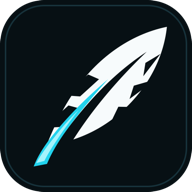
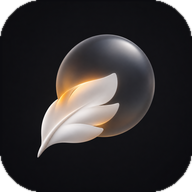
feat(brand): adopt the glass mark with light and dark variants
Replace the feather-plate logo with the rendered glass mark, cut out so the
navbar shows the shape alone, and give both appearances their own assets.

The app resolves the effective theme (light/dark/system, tracking the OS while
following it) and swaps the in-app mark and the tab favicon with it. PWA and
macOS icons ship both appearances too, since those are snapshotted at install
time and cannot be swapped by a running page.

The desktop icon is now a real 824/1024 macOS-grid render instead of the grey
placeholder: MyGo reads go/resources/icon.png and bakes it into AppIcon.icns.

diff --git a/client/src/hooks/useResolvedTheme.test.ts b/client/src/hooks/useResolvedTheme.test.ts
@@ -1,0 +1,75 @@
+// @vitest-environment jsdom
+
+import { describe, expect, it, beforeEach, afterEach, vi } from 'vitest'
+import { renderHook, act } from '@testing-library/react'
+import { useResolvedTheme } from './useResolvedTheme'
+import { useUIStore } from '@/stores'
+
+type Listener = (event: { matches: boolean }) => void
+
+function mockMatchMedia(initialDark: boolean) {
+  const listeners = new Set<Listener>()
+  let dark = initialDark
+  const query = {
+    get matches() { return dark },
+    media: '(prefers-color-scheme: dark)',
+    addEventListener: (_: string, cb: Listener) => { listeners.add(cb) },
+    removeEventListener: (_: string, cb: Listener) => { listeners.delete(cb) },
+  }
+  vi.stubGlobal('matchMedia', vi.fn(() => query))
+  return {
+    setDark(next: boolean) {
+      dark = next
+      listeners.forEach(cb => cb({ matches: next }))
+    },
+  }
+}
+
+describe('useResolvedTheme', () => {
+  beforeEach(() => {
+    useUIStore.setState({ theme: 'dark' })
+  })
+
+  afterEach(() => {
+    vi.unstubAllGlobals()
+  })
+
+  it('follows an explicit dark preference', () => {
+    mockMatchMedia(false)
+    const { result } = renderHook(() => useResolvedTheme())
+    expect(result.current).toBe('dark')
+  })
+
+  it('follows an explicit light preference even when the system is dark', () => {
+    mockMatchMedia(true)
+    useUIStore.setState({ theme: 'light' })
+    const { result } = renderHook(() => useResolvedTheme())
+    expect(result.current).toBe('light')
+  })
+
+  it('resolves system preference to the current system scheme', () => {
+    mockMatchMedia(true)
+    useUIStore.setState({ theme: 'system' })
+    const { result } = renderHook(() => useResolvedTheme())
+    expect(result.current).toBe('dark')
+  })
+
+  it('updates when the system scheme changes while following it', () => {
+    const media = mockMatchMedia(false)
+    useUIStore.setState({ theme: 'system' })
+    const { result } = renderHook(() => useResolvedTheme())
+    expect(result.current).toBe('light')
+
+    act(() => media.setDark(true))
+    expect(result.current).toBe('dark')
+  })
+
+  it('ignores system changes when an explicit preference is set', () => {
+    const media = mockMatchMedia(false)
+    useUIStore.setState({ theme: 'light' })
+    const { result } = renderHook(() => useResolvedTheme())
+
+    act(() => media.setDark(true))
+    expect(result.current).toBe('light')
+  })
+})

diff --git a/client/src/components/Layout.tsx b/client/src/components/Layout.tsx
@@ -13,6 +13,8 @@ import { Island } from '@/lib/island'
 import { IslandContext } from '@/lib/island/context'
 import { useUIStore } from '@/stores'
 import { appTabFromPath, appTabPath, isAppTab, type AppTab } from '@/stores/uiStore'
+import { useResolvedTheme } from '@/hooks/useResolvedTheme'
+import { brandMarkUrl } from '@/utils/brandAssets'
 import { preloadPage } from '@/utils/pagePreload'
 import {
   DEFAULT_OPERATOR_QUOTE,
@@ -132,6 +134,8 @@ export default function Layout({ children }: LayoutProps) {
   const storedActiveTab = useUIStore(state => state.activeTab)
   const setActiveTab = useUIStore(state => state.setActiveTab)
   const theme = useUIStore(state => state.theme)
+  const resolvedTheme = useResolvedTheme()
+  const brandMark = brandMarkUrl(resolvedTheme)
   const hasIslandProvider = useContext(IslandContext) !== null
   const activeTab: AppTab = isAppTab(storedActiveTab) ? storedActiveTab : 'dashboard'
   const [sidebarQuery, setSidebarQuery] = useState('')
@@ -349,7 +353,7 @@ export default function Layout({ children }: LayoutProps) {
                 <GlassLiveCardButton
                   type="button"
                   className="link la-pluma-brand"
-                  icon={<img src={`${import.meta.env.BASE_URL}logo-graphite.svg?v=1`} alt="" className="la-pluma-brand-mark" />}
+                  icon={<img src={brandMark} alt="" className="la-pluma-brand-mark" />}
                   aria-label="La Pluma 控制台"
                   onClick={() => navigateToTab('dashboard')}
                 >
@@ -435,7 +439,7 @@ export default function Layout({ children }: LayoutProps) {
                     const target = event.currentTarget
                     if (target.dataset.fallbackApplied === 'true') return
                     target.dataset.fallbackApplied = 'true'
-                    target.src = `${import.meta.env.BASE_URL}logo-graphite.svg?v=1`
+                    target.src = brandMark
                   }}
                 />
               </span>

diff --git a/client/index.html b/client/index.html
@@ -7,8 +7,15 @@
          this statement that style can establish `components` before `base`,
          which lets the reset wipe component-layer spacing across the app. -->
     <style>@layer properties, theme, base, components, utilities;</style>
-    <link rel="icon" type="image/png" href="%BASE_URL%favicon-graphite.png?v=1" />
-    <link rel="apple-touch-icon" href="%BASE_URL%apple-touch-icon-graphite.png?v=1" />
+    <link
+      rel="icon"
+      type="image/png"
+      data-brand-favicon
+      data-dark-href="%BASE_URL%favicon-graphite.png?v=7"
+      data-light-href="%BASE_URL%favicon-graphite-light.png?v=7"
+      href="%BASE_URL%favicon-graphite.png?v=7"
+    />
+    <link rel="apple-touch-icon" href="%BASE_URL%apple-touch-icon-graphite.png?v=7" />
     <meta name="viewport" content="width=device-width, initial-scale=1.0, viewport-fit=cover" />
     
     <!-- PWA Meta Tags -->
@@ -365,6 +372,16 @@
           document.documentElement.style.backgroundColor = dark ? '#101318' : '#f2f2f7'
           document.querySelector('meta[name="theme-color"]')?.setAttribute('content', dark ? '#101318' : '#f6f8fb')
           document.querySelector('meta[name="apple-mobile-web-app-status-bar-style"]')?.setAttribute('content', dark ? 'black-translucent' : 'default')
+
+          // The tab icon is the one brand asset a running page can swap, so a
+          // light-theme user does not get a black square in the tab strip.
+          // Installed icons (apple-touch-icon, manifest) are snapshotted at
+          // install time by the browser and stay on the single static file.
+          const favicon = document.querySelector('link[data-brand-favicon]')
+          if (favicon) {
+            const next = dark ? favicon.dataset.darkHref : favicon.dataset.lightHref
+            if (next && favicon.getAttribute('href') !== next) favicon.setAttribute('href', next)
+          }
         }
         window.__LA_PLUMA_APPLY_THEME__ = applyTheme
         try {

diff --git a/client/src/hooks/useResolvedTheme.ts b/client/src/hooks/useResolvedTheme.ts
@@ -1,0 +1,45 @@
+import { useSyncExternalStore } from 'react'
+import { useUIStore } from '@/stores'
+
+export type ResolvedTheme = 'light' | 'dark'
+
+const DARK_QUERY = '(prefers-color-scheme: dark)'
+
+function systemPrefersDark(): boolean {
+  return typeof window !== 'undefined'
+    && typeof window.matchMedia === 'function'
+    && window.matchMedia(DARK_QUERY).matches
+}
+
+function subscribeSystemTheme(onChange: () => void) {
+  if (typeof window === 'undefined' || typeof window.matchMedia !== 'function') {
+    return () => {}
+  }
+  const query = window.matchMedia(DARK_QUERY)
+  // Safari below 14 has the deprecated listener API only; both are kept so the
+  // brand mark never goes stale on an older iOS home screen.
+  if (typeof query.addEventListener === 'function') {
+    query.addEventListener('change', onChange)
+    return () => query.removeEventListener('change', onChange)
+  }
+  query.addListener(onChange)
+  return () => query.removeListener(onChange)
+}
+
+const readSystemDark = () => systemPrefersDark()
+
+/**
+ * The theme that is actually painted right now.
+ *
+ * The stored preference can be `system`, in which case the appearance follows
+ * the OS and must keep updating when the user flips the system setting. The
+ * boot script in index.html already writes `html.dark`, so components only need
+ * this to pick the matching asset variant.
+ */
+export function useResolvedTheme(): ResolvedTheme {
+  const theme = useUIStore(state => state.theme)
+  const systemDark = useSyncExternalStore(subscribeSystemTheme, readSystemDark, readSystemDark)
+
+  if (theme === 'system') return systemDark ? 'dark' : 'light'
+  return theme
+}

diff --git a/client/src/ios-theme.css b/client/src/ios-theme.css
@@ -292,8 +292,8 @@ html.la-pluma-standalone #app-root .page {
 .la-pluma-brand {
   display: inline-flex !important;
   align-items: center;
-  gap: 0.625rem;
-  min-height: 2.75rem;
+  gap: 0.75rem;
+  min-height: 3rem;
   padding: 0 0.25rem !important;
   font-size: 1rem;
   font-weight: 700;
@@ -301,22 +301,24 @@ html.la-pluma-standalone #app-root .page {
   color: var(--app-text) !important;
 }
 
-/* Let the wordmark breathe at the pill's right edge. The mobile rule below
-   keeps its square 44px geometry. */
+/* The mark is drawn edge-to-edge in its own file, so the inset has to come from
+   the pill: give the icon more room on both sides and let it grow into it. */
 .la-pluma-app .la-pluma-brand {
-  padding-right: 0.75rem !important;
+  padding-right: 1.25rem !important;
+  padding-left: 1rem !important;
 }
 
+/* The brand mark is a cut-out illustration, not an app icon: it carries no
+   plate, so no corner radius and no inset ring — those would draw a frame
+   around a shape that has none. */
 .la-pluma-brand-mark {
-  width: 1.875rem;
-  height: 1.875rem;
+  width: 2.25rem;
+  height: 2.25rem;
   object-fit: contain;
-  border-radius: 50%;
 }
 
 .la-pluma-app .la-pluma-brand .lg-button__icon {
-  border-radius: 50%;
-  box-shadow: inset 0 0 0 1px rgba(255, 255, 255, 0.08);
+  box-shadow: none;
 }
 
 .la-pluma-navbar-title {
@@ -1323,7 +1325,6 @@ html.la-pluma-standalone #app-root .page {
   .la-pluma-app .la-pluma-brand-mark {
     width: 100%;
     height: 100%;
-    border-radius: 50%;
   }
 
   .la-pluma-app .la-pluma-navbar-actions {

diff --git a/client/vite.config.ts b/client/vite.config.ts
@@ -158,6 +158,25 @@ export const createWebManifest = (basePath: string): Partial<ManifestOptions> =>
       sizes: '512x512',
       type: 'image/png',
       purpose: 'maskable'
+    },
+    // Light-appearance variants. The browser picks one at install time and
+    // bakes it into the home screen, so the theme is only advisory; shipping
+    // both keeps a light-theme install from getting a black square.
+    {
+      src: 'pwa-graphite-light-192x192.png',
+      sizes: '192x192',
+      type: 'image/png'
+    },
+    {
+      src: 'pwa-graphite-light-512x512.png',
+      sizes: '512x512',
+      type: 'image/png'
+    },
+    {
+      src: 'pwa-maskable-light-512x512.png',
+      sizes: '512x512',
+      type: 'image/png',
+      purpose: 'maskable'
     }
   ]
 })
@@ -232,7 +251,13 @@ export const createViteConfig = (basePath: string): UserConfig => ({
       devOptions: {
         enabled: false // 开发模式下禁用 Service Worker
       },
-      includeAssets: ['favicon-graphite.png', 'apple-touch-icon-graphite.png'],
+      includeAssets: [
+        'favicon-graphite.png',
+        'favicon-graphite-light.png',
+        'apple-touch-icon-graphite.png',
+        'logo-graphite-dark.png',
+        'logo-graphite-light.png',
+      ],
       manifest: createWebManifest(basePath),
       workbox: createWorkboxConfig(basePath)
     })

diff --git a/client/src/utils/brandAssets.ts b/client/src/utils/brandAssets.ts
@@ -1,0 +1,24 @@
+import type { ResolvedTheme } from '@/hooks/useResolvedTheme'
+
+/**
+ * Cache-busting suffix for the brand assets. Bump together with the `?v=` on the
+ * favicon links in index.html whenever any logo-*.png or favicon-*.png changes,
+ * so an already-installed home-screen icon refreshes on the next visit.
+ */
+export const BRAND_ASSET_VERSION = '7'
+
+function asset(name: string) {
+  return `${import.meta.env.BASE_URL}${name}?v=${BRAND_ASSET_VERSION}`
+}
+
+/**
+ * Square brand marks used inside the app (navbar, install prompt). These are the
+ * only logo assets that genuinely follow the theme at runtime, because the app
+ * can swap an <img> source the moment the user changes the setting.
+ *
+ * The favicon is swapped by the boot script in index.html instead: it has to be
+ * correct before hydration, and it is the same code path the theme toggle calls.
+ */
+export function brandMarkUrl(theme: ResolvedTheme) {
+  return asset(theme === 'light' ? 'logo-graphite-light.png' : 'logo-graphite-dark.png')
+}

diff --git a/client/src/components/PWAInstallPrompt.tsx b/client/src/components/PWAInstallPrompt.tsx
@@ -7,6 +7,8 @@ import { Button, CjkText, IconButton } from '@/components/common'
 import { hasDocumentBuildChanged } from '@/utils/pwaUpdate'
 import { PWA_INSTALL_REQUEST_EVENT } from '@/utils/pwaInstallPrompt'
 import { isDesktopRuntime } from '@/desktop/desktopMode'
+import { useResolvedTheme } from '@/hooks/useResolvedTheme'
+import { brandMarkUrl } from '@/utils/brandAssets'
 
 interface BeforeInstallPromptEvent extends Event {
   prompt: () => Promise<void>
@@ -228,7 +230,7 @@ function PWAInstallPromptWeb() {
     : showInstallPrompt
       ? (isIos ? '可以将 La Pluma 添加到主屏幕' : '可以安装 La Pluma')
       : ''
-  const logoUrl = `${import.meta.env.BASE_URL}logo-graphite.svg?v=1`
+  const logoUrl = brandMarkUrl(useResolvedTheme())
 
   return (
     <>
